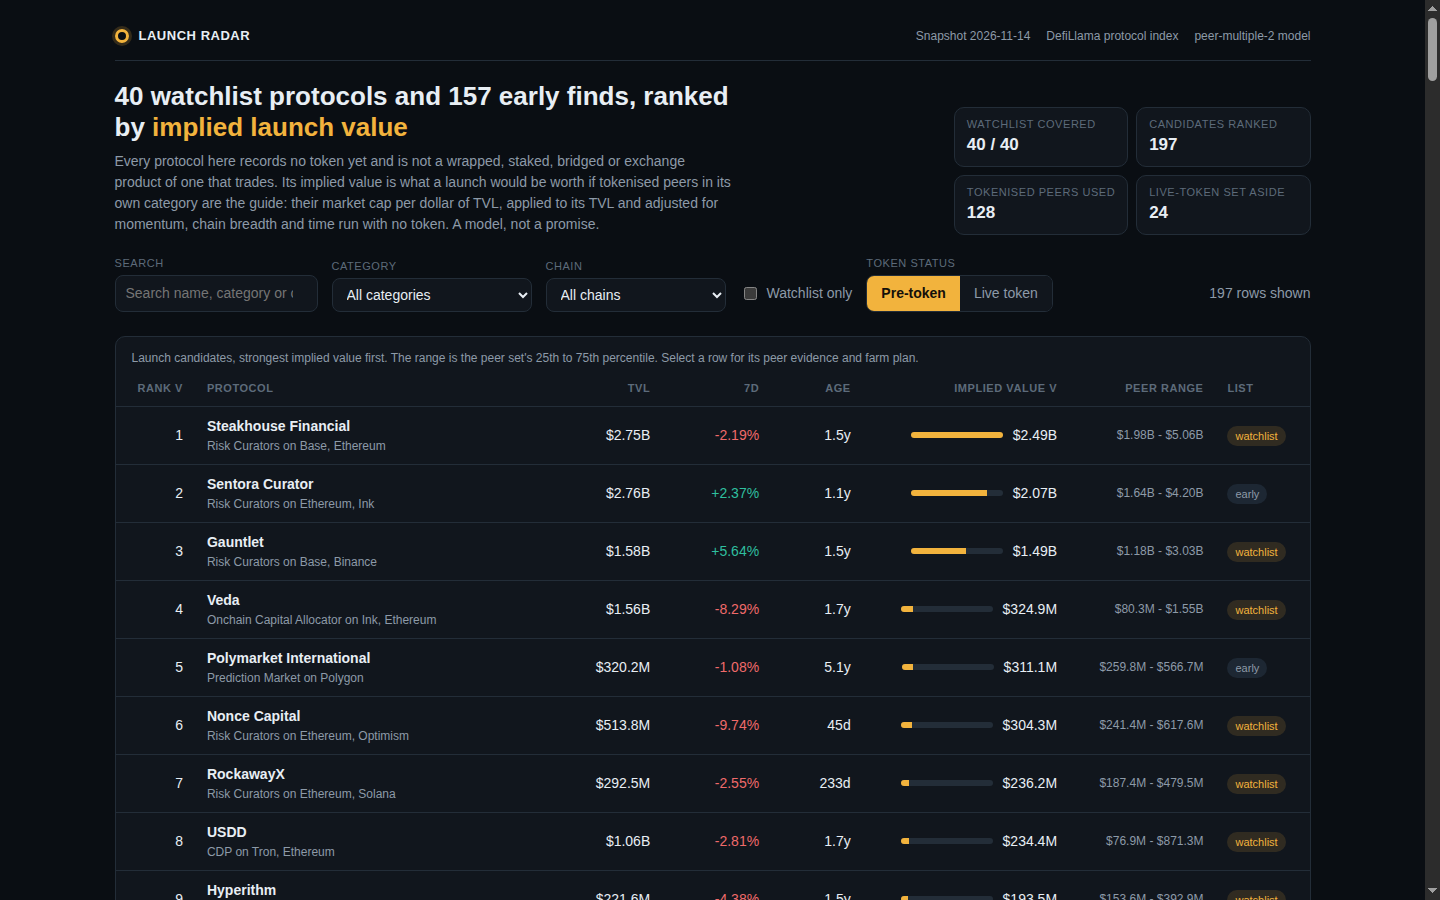
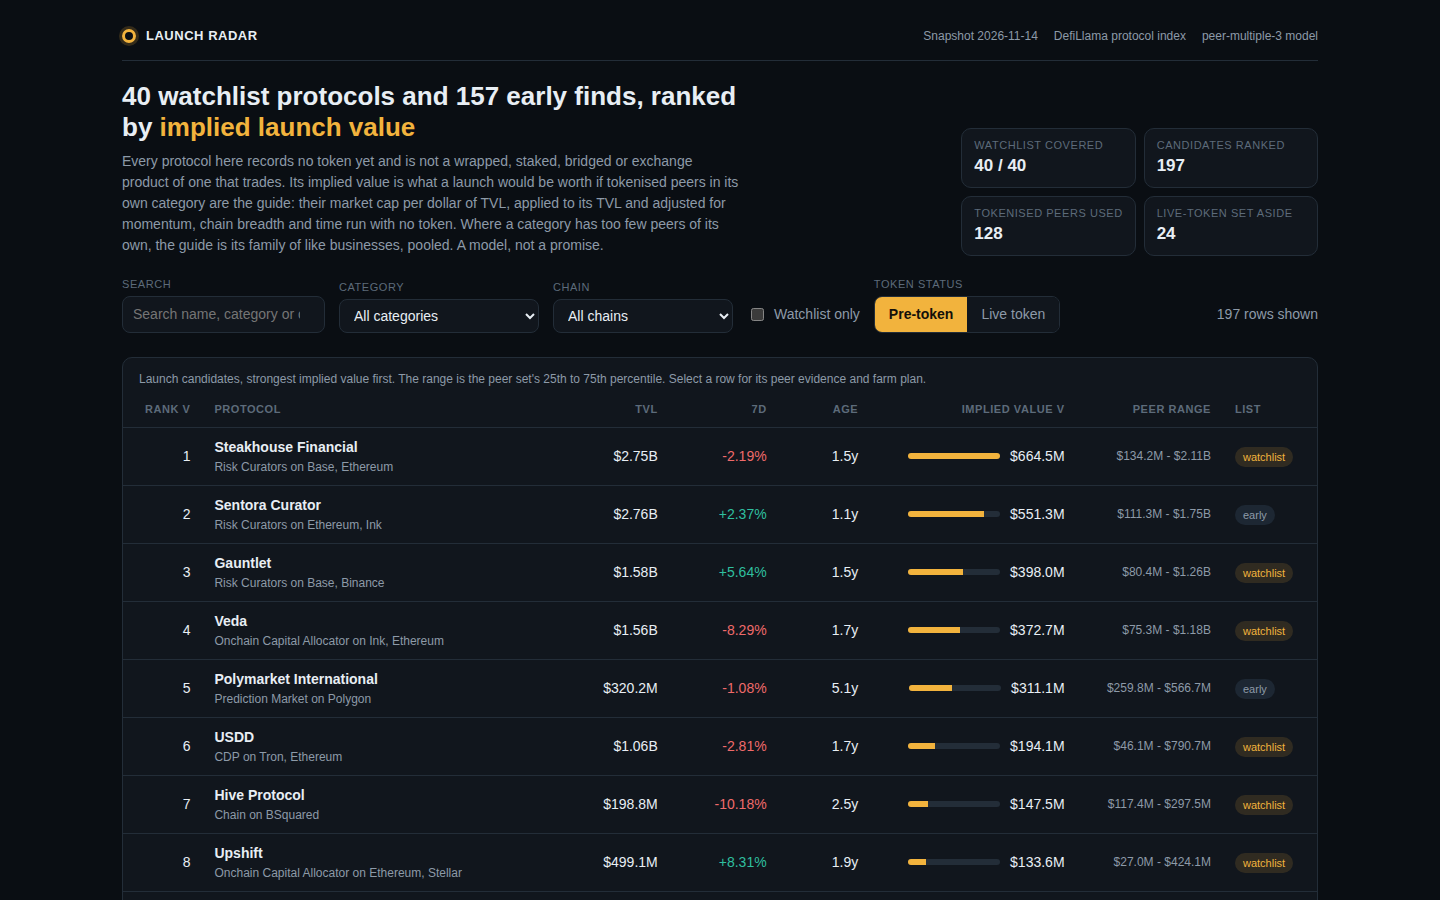
Token Radar v2: family pooling for thin peer sets (peer-multiple-3)
A category with fewer than 4 tokenised peers of its own is now priced from
its family's pooled peer set (managed yield, staking services, stablecoin
issuance, derivatives venues, credit markets, payments), shrunk toward the
global median the same way. Rows valued on <=2 peers: 102/197 -> 19/197;
removing Api3 (v1's sole peer behind ranks 1-3) now swings the worst row
4.4% instead of 228.9%. Dashboard states the pooling wherever it applies;
screenshots recaptured from the new build; output deterministic, gate
shape re-verified (197 rows, watchlist 40/40, dossier 804 KB).

diff --git a/lib/model.ts b/lib/model.ts
@@ -13,6 +13,11 @@
 //                (n x category median + 5 x global median) / (n + 5); a category with no peers
 //                takes the global median outright. The 25th and 75th percentiles shrink the same
 //                way and give the row's value range.
+//   pooling    = a category with fewer than pool_min_peers peers does not stand on that handful
+//                alone: if it belongs to a family of categories that run the same business
+//                (PEER_FAMILIES below), its evidence is the family's pooled peer set, shrunk
+//                the same way, and the row says so. One name can no longer carry a category:
+//                in peer-multiple-2 the board's top three rows rested on a single peer.
 //   momentum   = clamp(1 + (change_7d - category median change_7d) x 0.006, 0.80, 1.30)
 //   breadth    = 1 + 0.03 x min(chains - 1, 10)
 //   maturity   = 0.85 + 0.30 x min(age_days, 1095) / 1095   (age unknown: 365 days)
@@ -48,6 +53,7 @@ export interface ModelConstants {
   ratio_floor: number;
   ratio_cap: number;
   shrink_k: number;
+  pool_min_peers: number;
   momentum_weight: number;
   momentum_floor: number;
   momentum_cap: number;
@@ -63,6 +69,7 @@ export const MODEL: ModelConstants = {
   ratio_floor: 0.02,
   ratio_cap: 4,
   shrink_k: 5,
+  pool_min_peers: 4,
   momentum_weight: 0.006,
   momentum_floor: 0.8,
   momentum_cap: 1.3,
@@ -75,7 +82,24 @@ export const MODEL: ModelConstants = {
 };
 
 /** The model's version label: the dashboard names it. */
-export const MODEL_VERSION = 'peer-multiple-2';
+export const MODEL_VERSION = 'peer-multiple-3';
+
+/**
+ * Families of categories that run the same business, so a thin category's price of TVL is read
+ * from the family's pooled market evidence instead of one or two names. Membership is by what
+ * the business does with capital, never by a protocol's name: curators and allocators manage
+ * other people's yield, staking services run validators, stablecoin issuers mint against
+ * collateral, derivatives venues take margin, credit markets lend, payment apps move money.
+ * A category in no family stands on its own peers, however few, shrunk as before.
+ */
+export const PEER_FAMILIES: { name: string; categories: string[] }[] = [
+  { name: 'managed yield', categories: ['Risk Curators', 'Onchain Capital Allocator', 'Yield', 'Yield Aggregator', 'Liquidity Manager', 'Leveraged Farming'] },
+  { name: 'staking services', categories: ['Staking Pool', 'Restaking', 'Liquid Restaking', 'Liquid Staking'] },
+  { name: 'stablecoin issuance', categories: ['CDP', 'CDP Manager', 'Dual-Token Stablecoin', 'Stablecoin Wrapper', 'Stablecoin Issuer', 'Algo-Stables'] },
+  { name: 'derivatives venues', categories: ['Derivatives', 'Interest Rate Derivatives', 'Options', 'Options Vault', 'Synthetics'] },
+  { name: 'credit markets', categories: ['Lending', 'Uncollateralized Lending', 'Collateral Markets'] },
+  { name: 'payments', categories: ['Payments', 'Crypto Card Issuer'] },
+];
 
 /** How many live-token protocols the Live token view carries, by market cap. */
 export const LIVE_ROWS = 24;
@@ -153,6 +177,8 @@ export interface CategoryStats {
   ratio_hi: number;
   median_change_7d: number | null;
   top_peers: { name: string; ratio: number }[];
+  /** The family this evidence was pooled across, or null when the category stands on its own peers. */
+  family: string | null;
 }
 
 /** The peer evidence base the model derives from one snapshot. */
@@ -194,24 +220,43 @@ export function buildPeerBase(snapshot: Snapshot, model: ModelConstants = MODEL)
 
   const categories = new Map<string, CategoryStats>();
   const shrink = (catQ: number, globalQ: number, n: number): number => (n * catQ + model.shrink_k * globalQ) / (n + model.shrink_k);
-  for (const [key, list] of byCategory) {
+  /** The shrunk evidence of one peer list: its percentiles against the global ones, by its count. */
+  const statsFrom = (key: string, list: SnapshotProtocol[], changes: number[], family: string | null): CategoryStats => {
     const ratios = list.map(winsor).sort((a, b) => a - b);
     const n = list.length;
-    const catChanges = (changeByCategory.get(key) ?? []).slice().sort((a, b) => a - b);
-    categories.set(key, {
+    const sortedChanges = changes.slice().sort((a, b) => a - b);
+    return {
       category: key,
       peers: n,
       raw_median: percentile(ratios, 0.5),
       ratio: shrink(percentile(ratios, 0.5), globalMedian, n),
       ratio_lo: shrink(percentile(ratios, 0.25), globalLo, n),
       ratio_hi: shrink(percentile(ratios, 0.75), globalHi, n),
-      median_change_7d: catChanges.length > 0 ? percentile(catChanges, 0.5) : null,
+      median_change_7d: sortedChanges.length > 0 ? percentile(sortedChanges, 0.5) : null,
       top_peers: list
         .slice()
         .sort((a, b) => b.mcap_usd! - a.mcap_usd!)
         .slice(0, 4)
         .map((p) => ({ name: p.name, ratio: round4(winsor(p)) })),
-    });
+      family,
+    };
+  };
+  for (const [key, list] of byCategory) {
+    categories.set(key, statsFrom(key, list, changeByCategory.get(key) ?? [], null));
+  }
+  // Pooling: a family member with fewer than pool_min_peers peers of its own is re-based on the
+  // family's pooled peer set when the pool is deeper than its own handful. Members with a deep
+  // set of their own keep it; a member whose family adds nothing keeps its own stats too.
+  for (const fam of PEER_FAMILIES) {
+    const pooled = fam.categories.flatMap((c) => byCategory.get(c) ?? []);
+    if (pooled.length === 0) continue;
+    const pooledChanges = fam.categories.flatMap((c) => changeByCategory.get(c) ?? []);
+    for (const key of fam.categories) {
+      const own = byCategory.get(key)?.length ?? 0;
+      if (own < model.pool_min_peers && pooled.length > own) {
+        categories.set(key, statsFrom(key, pooled, pooledChanges, fam.name));
+      }
+    }
   }
   return { peer_count: peers.length, global_median: globalMedian, global_lo: globalLo, global_hi: globalHi, global_median_change_7d: globalChange, categories };
 }
@@ -229,6 +274,7 @@ function statsFor(base: PeerBase, category: string | null): CategoryStats {
     ratio_hi: base.global_hi,
     median_change_7d: base.global_median_change_7d,
     top_peers: [],
+    family: null,
   };
 }
 
@@ -241,6 +287,7 @@ export interface Valuation {
   ratio_lo: number;
   ratio_hi: number;
   peers: number;
+  family: string | null;
   momentum: number;
   breadth: number;
   maturity: number;
@@ -266,6 +313,7 @@ export function valueProtocol(p: SnapshotProtocol, asOf: string, base: PeerBase,
     ratio_lo: stats.ratio_lo,
     ratio_hi: stats.ratio_hi,
     peers: stats.peers,
+    family: stats.family,
     momentum,
     breadth,
     maturity,
@@ -299,6 +347,7 @@ export interface BoardRow {
   model: {
     peer_category: string;
     peer_count: number;
+    peer_family: string | null;
     ratio_used: number;
     ratio_lo: number;
     ratio_hi: number;
@@ -395,6 +444,7 @@ export function buildBoard(snapshot: Snapshot, base: PeerBase, model: ModelConst
     model: {
       peer_category: s.p.category ?? '',
       peer_count: s.v.peers,
+      peer_family: s.v.family,
       ratio_used: round4(s.v.ratio),
       ratio_lo: round4(s.v.ratio_lo),
       ratio_hi: round4(s.v.ratio_hi),

diff --git a/dashboard/app.js b/dashboard/app.js
@@ -227,7 +227,7 @@
     return el('section', { class: 'lede' },
       el('div', null,
         el('h1', null, DATA.watchlist_size + ' watchlist protocols and ' + DATA.early_size + ' early finds, ranked by ', el('em', { text: 'implied launch value' })),
-        el('p', { text: 'Every protocol here records no token yet and is not a wrapped, staked, bridged or exchange product of one that trades. Its implied value is what a launch would be worth if tokenised peers in its own category are the guide: their market cap per dollar of TVL, applied to its TVL and adjusted for momentum, chain breadth and time run with no token. A model, not a promise.' })
+        el('p', { text: 'Every protocol here records no token yet and is not a wrapped, staked, bridged or exchange product of one that trades. Its implied value is what a launch would be worth if tokenised peers in its own category are the guide: their market cap per dollar of TVL, applied to its TVL and adjusted for momentum, chain breadth and time run with no token. Where a category has too few peers of its own, the guide is its family of like businesses, pooled. A model, not a promise.' })
       ),
       el('div', { class: 'facts' },
         el('div', { class: 'fact' }, el('span', { text: 'Watchlist covered' }), el('b', { text: DATA.watchlist_size + ' / ' + DATA.watchlist_size })),
@@ -363,7 +363,7 @@
     var tbody = el('tbody');
     DATA.categories.forEach(function (c) {
       tbody.appendChild(el('tr', null,
-        el('td', { text: c.category }),
+        el('td', { text: c.family ? c.category + ' (pooled: ' + c.family + ')' : c.category }),
         el('td', { class: 'num', text: String(c.peers) }),
         el('td', { class: 'num', text: fmtRatio(c.raw_median) }),
         el('td', { class: 'num', text: fmtRatio(c.ratio) }),
@@ -372,7 +372,7 @@
     });
     return el('section', { class: 'panel model' },
       el('h2', { text: 'How implied value is computed' }),
-      el('p', { class: 'sub', text: 'The guide is the market itself: ' + DATA.peer_count + ' protocols in this snapshot already trade, so each one prices a dollar of TVL in its category. A candidate is valued at its own category\'s price of TVL, shrunk toward the global median (' + fmtRatio(DATA.global.median) + ') when the category\'s peer set is thin, then adjusted for the protocol\'s own record. No protocol name is special-cased, and no row is hand-picked.' }),
+      el('p', { class: 'sub', text: 'The guide is the market itself: ' + DATA.peer_count + ' protocols in this snapshot already trade, so each one prices a dollar of TVL in its category. A candidate is valued at its own category\'s price of TVL, shrunk toward the global median (' + fmtRatio(DATA.global.median) + ') when the category\'s peer set is thin, then adjusted for the protocol\'s own record. No protocol name is special-cased, and no row is hand-picked. A category with fewer than ' + M.pool_min_peers + ' peers of its own never stands on that handful alone: it is priced from its family — the categories that run the same business (managed yield, staking services, stablecoin issuance, derivatives venues, credit markets, payments) — pooled and shrunk the same way, and the table and the row both say which family carried it.' }),
       el('div', { class: 'formula', text: 'implied = round( tvl x shrunk_median(mcap/tvl of category peers) x momentum x breadth x maturity )' }),
       el('p', { class: 'sub', text: 'Momentum compares the protocol\'s 7d TVL change with its category\'s median (weight ' + M.momentum_weight + ', clamped ' + M.momentum_floor + ' to ' + M.momentum_cap + '). Breadth adds ' + (M.breadth_per_chain * 100) + '% per extra chain, up to 10. Maturity runs ' + M.maturity_floor + ' to ' + (M.maturity_floor + M.maturity_range) + ' over the first ' + M.maturity_days + ' days the protocol has run with no token. Peer ratios are winsorised to [' + M.ratio_floor + ', ' + M.ratio_cap + '] and shrunk with k = ' + M.shrink_k + ': (n x category + k x global) / (n + k).' }),
       el('div', { class: 'table-wrap' },
@@ -389,6 +389,7 @@
   dialog.addEventListener('close', function () { state.selected = null; writeHash(); });
 
   function confidence(st) {
+    if (st.family) return 'Pooled peer set: ' + st.peers + ' tokenised peers across the ' + st.family + ' family price this row, because its own category has fewer than ' + M.pool_min_peers + ' tokenised peers of its own. No single name carries the ratio.';
     if (st.peers >= 8) return 'Broad peer set: ' + st.peers + ' tokenised peers price this category, so the ratio rests on a market, not a name.';
     if (st.peers >= 3) return 'Moderate peer set: ' + st.peers + ' tokenised peers, shrunk toward the global median.';
     if (st.peers >= 1) return 'Thin peer set: only ' + st.peers + ' tokenised peer' + (st.peers === 1 ? '' : 's') + ' in this category, so the ratio leans on the global median. Treat this value with care.';
@@ -433,10 +434,10 @@
       el('h3', { text: 'Peer evidence' }),
       st.peers > 0
         ? el('table', { class: 'peers' },
-            el('thead', null, el('tr', null, el('th', { scope: 'col', text: 'Largest tokenised peers in ' + (row.c || 'this category') }), el('th', { scope: 'col', class: 'num', text: 'mcap / TVL' }))),
+            el('thead', null, el('tr', null, el('th', { scope: 'col', text: st.family ? 'Largest tokenised peers in the ' + st.family + ' family' : 'Largest tokenised peers in ' + (row.c || 'this category') }), el('th', { scope: 'col', class: 'num', text: 'mcap / TVL' }))),
             peerBody)
         : el('p', { class: 'sub', text: 'No tokenised protocol in this category carries both a market cap and a TVL in the snapshot.' }),
-      el('p', { class: 'sub', text: 'Category peers: ' + st.peers + '. Raw median ' + fmtRatio(st.raw_median) + ', shrunk to ' + fmtRatio(st.ratio) + ' against the global median ' + fmtRatio(DATA.global.median) + ' (range ' + fmtRatio(st.ratio_lo) + ' - ' + fmtRatio(st.ratio_hi) + ').' }),
+      el('p', { class: 'sub', text: (st.family ? 'Peer evidence: ' + st.peers + ' tokenised peers pooled across the ' + st.family + ' family. ' : 'Category peers: ' + st.peers + '. ') + 'Raw median ' + fmtRatio(st.raw_median) + ', shrunk to ' + fmtRatio(st.ratio) + ' against the global median ' + fmtRatio(DATA.global.median) + ' (range ' + fmtRatio(st.ratio_lo) + ' - ' + fmtRatio(st.ratio_hi) + ').' }),
       el('div', { class: 'note', text: confidence(st) })
     ));
     var steps = farmSteps(row);

diff --git a/BUILD_NOTES.md b/BUILD_NOTES.md
@@ -2,6 +2,35 @@
 
 Local build only. Nothing submitted, no GitHub repo created. Deadline: 2026-12-14T10:00Z.
 
+## v2 (2026-11-18) — family pooling for thin peer sets (model peer-multiple-3)
+
+One change, against the weakness v1's notes flagged first: thin peer sets at the top.
+There is no local grade for this competition (the server grades every entry), so the
+change was gated on diagnostics run against the model's own code, before vs after:
+
+- Thin exposure: rows valued on 2 or fewer tokenised peers fell from 102 of 197 (51.8%)
+  to 19 (9.6%); in the top 20, from 15 rows to 3. The remaining thin rows are Chain and
+  Prediction Market, which have no sibling business to pool with, plus Payments (2).
+- Leave-one-out fragility: deleting Api3 — in v1 the sole Risk Curators peer behind
+  ranks 1–3 — swung the worst row's implied value by 228.9%; under v2 it swings 4.4%.
+  Peers whose removal swings any row by more than 50%: 12 of 128 in v1, 10 in v2 (the
+  worst remaining case is Rain, the only Prediction Market peer; no family exists for it).
+- The change: a category with fewer than `pool_min_peers` (4) peers of its own is priced
+  from its family's pooled peer set (PEER_FAMILIES in lib/model.ts: managed yield,
+  staking services, stablecoin issuance, derivatives venues, credit markets, payments),
+  shrunk toward the global median exactly as a category set is. Membership is by what the
+  business does, never by a protocol's name. 57 rows now rest on the 18-peer managed-yield
+  pool; the top of the board is Steakhouse Financial ($664M), Sentora Curator ($551M),
+  Gauntlet ($398M), Veda ($373M) — the same names, on 18 peers instead of 1–2.
+- Dashboard text states the pooling wherever it applies (lede, method panel, category
+  table, detail peer evidence and confidence note); screenshots recaptured from the new
+  build at 1440x900 (183 KB board, 203 KB detail, 186 KB filtered), no console errors,
+  and the detail view's in-page recompute still matches board.json to the dollar.
+- Gate shape re-verified on the new output: 197 rows, watchlist 40/40, ranks exactly
+  1..197, implied values non-increasing by rank, every farm step 20–600 characters,
+  dashboard source 39,087 bytes (under the 65,536 dossier text cap), dossier.json
+  804,266 bytes (under 1.5 MiB), two consecutive runs byte-identical.
+
 ## Snapshot stats (input/snapshot.json, as_of 2026-11-14)
 
 - 758 protocols at or above $5M TVL; watchlist floor $50M; watchlist = 40 protocols.

diff --git a/README.md b/README.md
@@ -6,7 +6,7 @@
 
 An entry for the [token-radar-01 bounty on make.fun](https://make.fun/bounty/token-radar-01) — "Build the best token launch radar."
 
-Launch Radar ranks 197 pre-token protocols from the competition's sealed DefiLlama snapshot by implied launch value. The model ("peer-multiple-2") prices each candidate off the median market-cap/TVL multiple of tokenised peers in its own category — winsorised, shrunk toward the global median — then adjusts for relative 7-day TVL momentum, chain breadth, and maturity, and reports a p25–p75 range per protocol. Every row's detail view shows the full derivation (peer set, raw vs shrunk ratio, multipliers) and the page recomputes each figure against the shipped data, so nothing on the board is a black box. Each candidate also carries concrete farming steps.
+Launch Radar ranks 197 pre-token protocols from the competition's sealed DefiLlama snapshot by implied launch value. The model ("peer-multiple-3") prices each candidate off the median market-cap/TVL multiple of tokenised peers in its own category — winsorised, shrunk toward the global median — then adjusts for relative 7-day TVL momentum, chain breadth, and maturity, and reports a p25–p75 range per protocol. A category with fewer than four tokenised peers of its own is priced from its family of like businesses (managed yield, staking services, stablecoin issuance, derivatives venues, credit markets, payments), pooled and shrunk the same way, so no single name can carry a category's price of TVL. Every row's detail view shows the full derivation (peer set, raw vs shrunk ratio, multipliers) and the page recomputes each figure against the shipped data, so nothing on the board is a black box. Each candidate also carries concrete farming steps.
 
 Top of the board: Steakhouse Financial, Sentora Curator, Gauntlet, Veda, Polymarket International.
 
